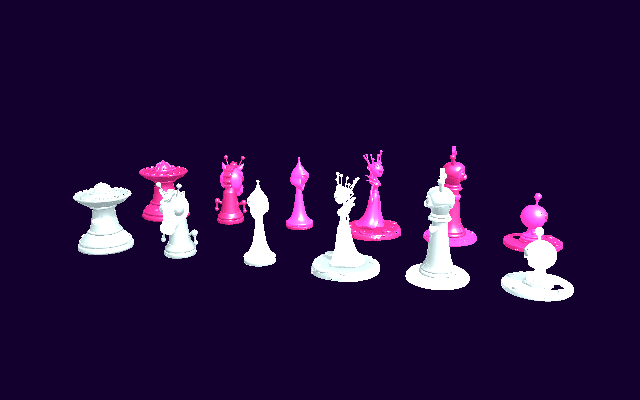
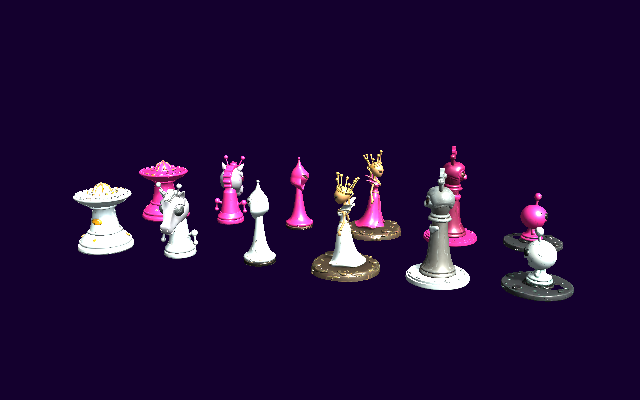
Piece sets: the alien king's whole robe takes the side's colour; Customize cards re-rendered with the colour swap

diff --git a/Art/Pieces/export_recolor.py b/Art/Pieces/export_recolor.py
@@ -29,6 +29,10 @@ PRIMARY = {
 }
 K = 6              # colour clusters per texture
 NEAR, FAR = 0.045, 0.09   # colour distance (OKLab) fully in / fully out of the main colour
+# ("Set", "Piece"): NEAR and FAR scaled, for a main colour spread over several shades
+TOLERANCE = {
+    ("Aliens", "King"): 2.2,  # the robe runs from tan to deep brown
+}
 
 args = sys.argv[sys.argv.index("--") + 1:]
 SRC, OUT = args[0], args[1]
@@ -99,7 +103,8 @@ for set_name in ONLY:
         pick = order[PRIMARY.get((set_name, piece), 0)]
         main = centres[pick] / w
         d = np.sqrt((((lab - main) * np.array([0.5, 1, 1])) ** 2).sum(1))
-        mask = np.clip((FAR - d) / (FAR - NEAR), 0, 1)
+        k = TOLERANCE.get((set_name, piece), 1.0)
+        mask = np.clip((FAR * k - d) / ((FAR - NEAR) * k), 0, 1)
         lum = 0.2126 * rgb[:, 0] + 0.7152 * rgb[:, 1] + 0.0722 * rgb[:, 2]
         main_lum = np.median(lum[mask > 0.9]) if (mask > 0.9).any() else lum.mean()
         shade = np.clip(lum / max(main_lum, 1e-3) / 2, 0, 1)
